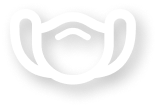
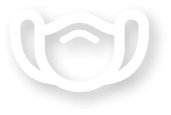
.

diff --git a/kimsookza/css/main.css b/kimsookza/css/main.css
@@ -81,9 +81,35 @@
    top: 124px;
    right: 2px;
 }
-.visual .swiper button {
+/* .visual .swiper button {
    display: none;
+}  */
+.visual .swiper ul li {
+   position: relative;
 }
+.visual .swiper ul li .photo{
+   overflow: hidden;
+   height: 680px;
+}
+.visual .swiper ul li .photo img {
+   width: 100%;
+   height: 100%;
+   object-fit: cover;
+}
+.visual .swiper ul li.swiper-slide-active .photo img {
+   animation-name: visual_photo;
+   animation-duration: 5s;
+   animation-timing-function: linear; /* 가속도X */
+   animation-iteration-count: 1;
+   animation-fill-mode: forwards; /* 마지막 유지 */
+   transform: scale3d(1.1, 1.1, 1);
+}
+@keyframes visual_photo {
+   0% { transform: scale3d(1.1, 1.1, 1); }
+   100% { transform: scale3d(1, 1, 1); }
+}
+
+
  .visual .visual_bg .title {
     position: absolute;
     font-family: 'dosis';
@@ -100,7 +126,6 @@
    bottom: 15px;
    left: 90px;
  }
-
 
  .info {
    position: relative;
@@ -185,20 +210,18 @@
 
 
 
-
 .depart {
    position: relative;
-   align-items: center; /* 세로 중앙 */
-   display: block;
+   
    width: 100%;
-   height: 100%;
+   height: auto;
 }
 .depart .wrapper {
    position: relative;
    display: flex ; /* Flexbox 활성화 */
    justify-content: center; /* 가로 중앙 */
    align-items: center; /* 세로 중앙 */
-   margin: 200px 0 0 0;
+   margin: 200px auto 0 auto ;
    background: #F2F2F2;
 }
 .depart .wrapper .tit {
@@ -214,7 +237,7 @@
 }
 .depart .wrapper .tit a {
    position: relative;
-   margin: 26px 0 0 0;
+   margin: 20px 0 0 0;
    font-weight: 600;
    color: #fff;
    background-color: #242959;
@@ -236,13 +259,18 @@
 }
 
 .depart .list_wrap {
+   margin: 0 0 0 189px;
    width: 970px;
-   height: 536px;
+   height: 1536px;
+}
+.depart .wrapper .list {
+   text-align: center ;
 }
 .depart .wrapper .list ul {
    position: relative;
    color: #242959;
    font-size: 26px;
+   margin: 286px 0 0 0;
    font-weight: 300;
    border-radius: 40px;
    padding: 0;
@@ -251,9 +279,11 @@
    gap: 46px;
 }
 .depart .wrapper .list ul li {
+   position: relative;
    border-radius: 30px;
    height: 256px;
    width: 256px;
+   
 }
 .depart .wrapper .list .green {
    background-color: #E1F3CB;
@@ -265,10 +295,76 @@
    background-color: #B3C8FF;
 }
 .depart .wrapper .list ul li a {
+   white-space: nowrap;
+   position: absolute;
    display: block;
    padding: 56px 56px;
    height: 200px;
-   width: 280px;
-
+   width: 200px;
+   text-align: center;
 }
+.depart .wrapper .list ul li a:hover span {
+   font-weight: 500;
+}
+.depart .wrapper .list ul li a .photo  {
+   height: 150px;
+   width: 150px;
+} 
  
+
+.doctors {
+   position: relative;  
+}
+.doctors .wrapper {
+   padding: 200px 0 0 0;
+   display: flex ; /* Flexbox 활성화 */
+   justify-content: center; /* 가로 중앙 */
+   align-items: center; /* 세로 중앙 */
+   background: #F2F2F2;
+}
+.doctors .wrapper .tit {
+   font-family: "dosis";
+   color: #fff;
+}
+.doctors .wrapper .tit h2 {
+   font-size: 56px;
+   font-weight: 700;
+}
+.doctors .wrapper .tit p {
+   font-size: 26px;
+}
+.doctors .wrapper .tit .photo {
+   height: 235px;
+   width: 250px;
+}
+
+
+
+
+
+
+
+/* 
+.doctors .wrapper .tit img {
+   display: block;
+   width: 250px;
+   height: 320px;
+}
+.doctors .list_doc li {
+   border-color: #242959;
+   border-radius: 40px;
+}
+.doctors .list_doc li ul {
+   position: absolute;
+   color: #fff;
+   font-size: 17px;
+   margin: 0 0 0 0;
+   font-weight: 300;
+   border-radius: 40px;
+   padding: 0;
+   display: flex;
+   flex-wrap: wrap;
+   gap: 46px;
+   
+} */
+

diff --git a/kimsookza/index.html b/kimsookza/index.html
@@ -176,13 +176,13 @@
                                 </li>
                                 <li class="blue">
                                     <a href="#n">
-                                        <div class="photo"><img src="images/depart4.png" alt="마스크심볼"></div>
+                                        <div class="photo"><img src="images/depart5.png" alt="마스크심볼"></div>
                                         <span>소아신경</span>
                                     </a>
                                 </li>
                                 <li class="green">
                                     <a href="#n">
-                                    <div class="photo"><img src="images/depart5.png" alt="마스크심볼"></div>
+                                    <div class="photo"><img src="images/depart4.png" alt="마스크심볼"></div>
                                     <span>소화기 질환</span>
                                     </a>
                                 </li>
@@ -196,8 +196,48 @@
                         </div>
                     </div><!--list_wrap-->
                 </div><!--wrapper-->
-            </section>
-            <section class="doctors"></section>
+            </section><!--depart-->
+            <section class="doctors">
+                <div class="wrapper">
+                    <div class="tit">
+                       <div class="photo"><img src="images/logo_big.png" alt="김숙자 소아병원의 로고"></div>
+                        <h2>의료진 소개</h2>
+                        <p>Meet Our Doctors</p>
+                    </div><!--tit-->
+                    <div class="list_doc">
+                        <ul>
+                            <li>
+                                <a href="#n">
+                                    <div class="photo"><img src="images/doc_1.png" alt=""></div>
+                                    <h3>Harvey Levy 전문의</h3>
+                                    <p>유전체학과 의학 수석의사</p>
+                                </a>
+                            </li>
+                            <li>
+                                <a href="#n">
+                                    <div class="photo"><img src="images/doc_2.png" alt=""></div>
+                                    <h3>김숙자 원장</h3>
+                                    <p>임상 유전학 특수전문의</p>
+                                </a>
+                            </li>
+                            <li>
+                                <a href="#n">
+                                    <div class="photo"><img src="images/doc_3.png" alt=""></div>
+                                    <h3>조학균 전문의</h3>
+                                    <p>소아 청소년과 전문의</p>
+                                </a>
+                            </li>
+                            <li>
+                                <a href="#n">
+                                    <div class="photo"><img src="images/doc_4.png" alt=""></div>
+                                    <h3>홍남기 원장</h3>
+                                    <p>흉부외과 전문의</p>
+                                </a>
+                            </li>
+                        </ul>
+                    </div>
+                </div><!--wrapper-->
+            </section><!--doctors-->
             <section class="main_depart"></section>
             <section class="gallery"></section>
         </main><!--container-->

diff --git a/kimsookza/css/layout.css b/kimsookza/css/layout.css
@@ -42,20 +42,20 @@ header {
     background-color: #242959;   
 }
 header .logo {
-    margin-bottom: 0.8em;
+    margin-bottom: 13.6px;
 }
 header .logo a {
     display: block;
     color: transparent; /* 글자색 투명 */
-    width: 51.9412em;
-    height: 3.1176em;
+    width: 338px;
+    height: 53px;
     position: relative; /* before 정렬의 기준 */
 }
 header .logo a::before {
     content: "";
     position: absolute;
-    left: -10.2353em;
-    top: 1.3529em;
+    right: -120px;       
+    top: 23px;
     width: 100%;
     height: 100%;
     background: url(../images/logo_w.png) no-repeat center center / contain;
@@ -70,19 +70,19 @@ header .logo a::before {
             }
             header .gnb {
                 position: absolute;
-                left: 54.4706em;
+                left: 926px;
                 top: 0;
                 width: 100%;
                 height: 100%;
             }
             header .gnb .gnb_wrap ul.depth1 > li {
                 text-align: center;
-                width: 7.3529em;
+                width: 125px;
                 position: relative; /* depth2 정렬의 기준 */
             }
             header .gnb .gnb_wrap ul.depth1 > li > a {
                 display: block;
-                font-size: 1rem;
+                font-size: 17PX;
                 line-height: 100px;/*행간으로 메뉴가운데 맞춤*/
             }
             header .gnb .gnb_wrap ul.depth1 > li.over > a > span {
@@ -95,7 +95,7 @@ header .logo a::before {
                 top: 100px;/*header높이*/
                 width: 100%;
                 height: 100px;
-                padding-top: 1em;
+                padding-top: 17px;
                 display: none;
             }
 }
